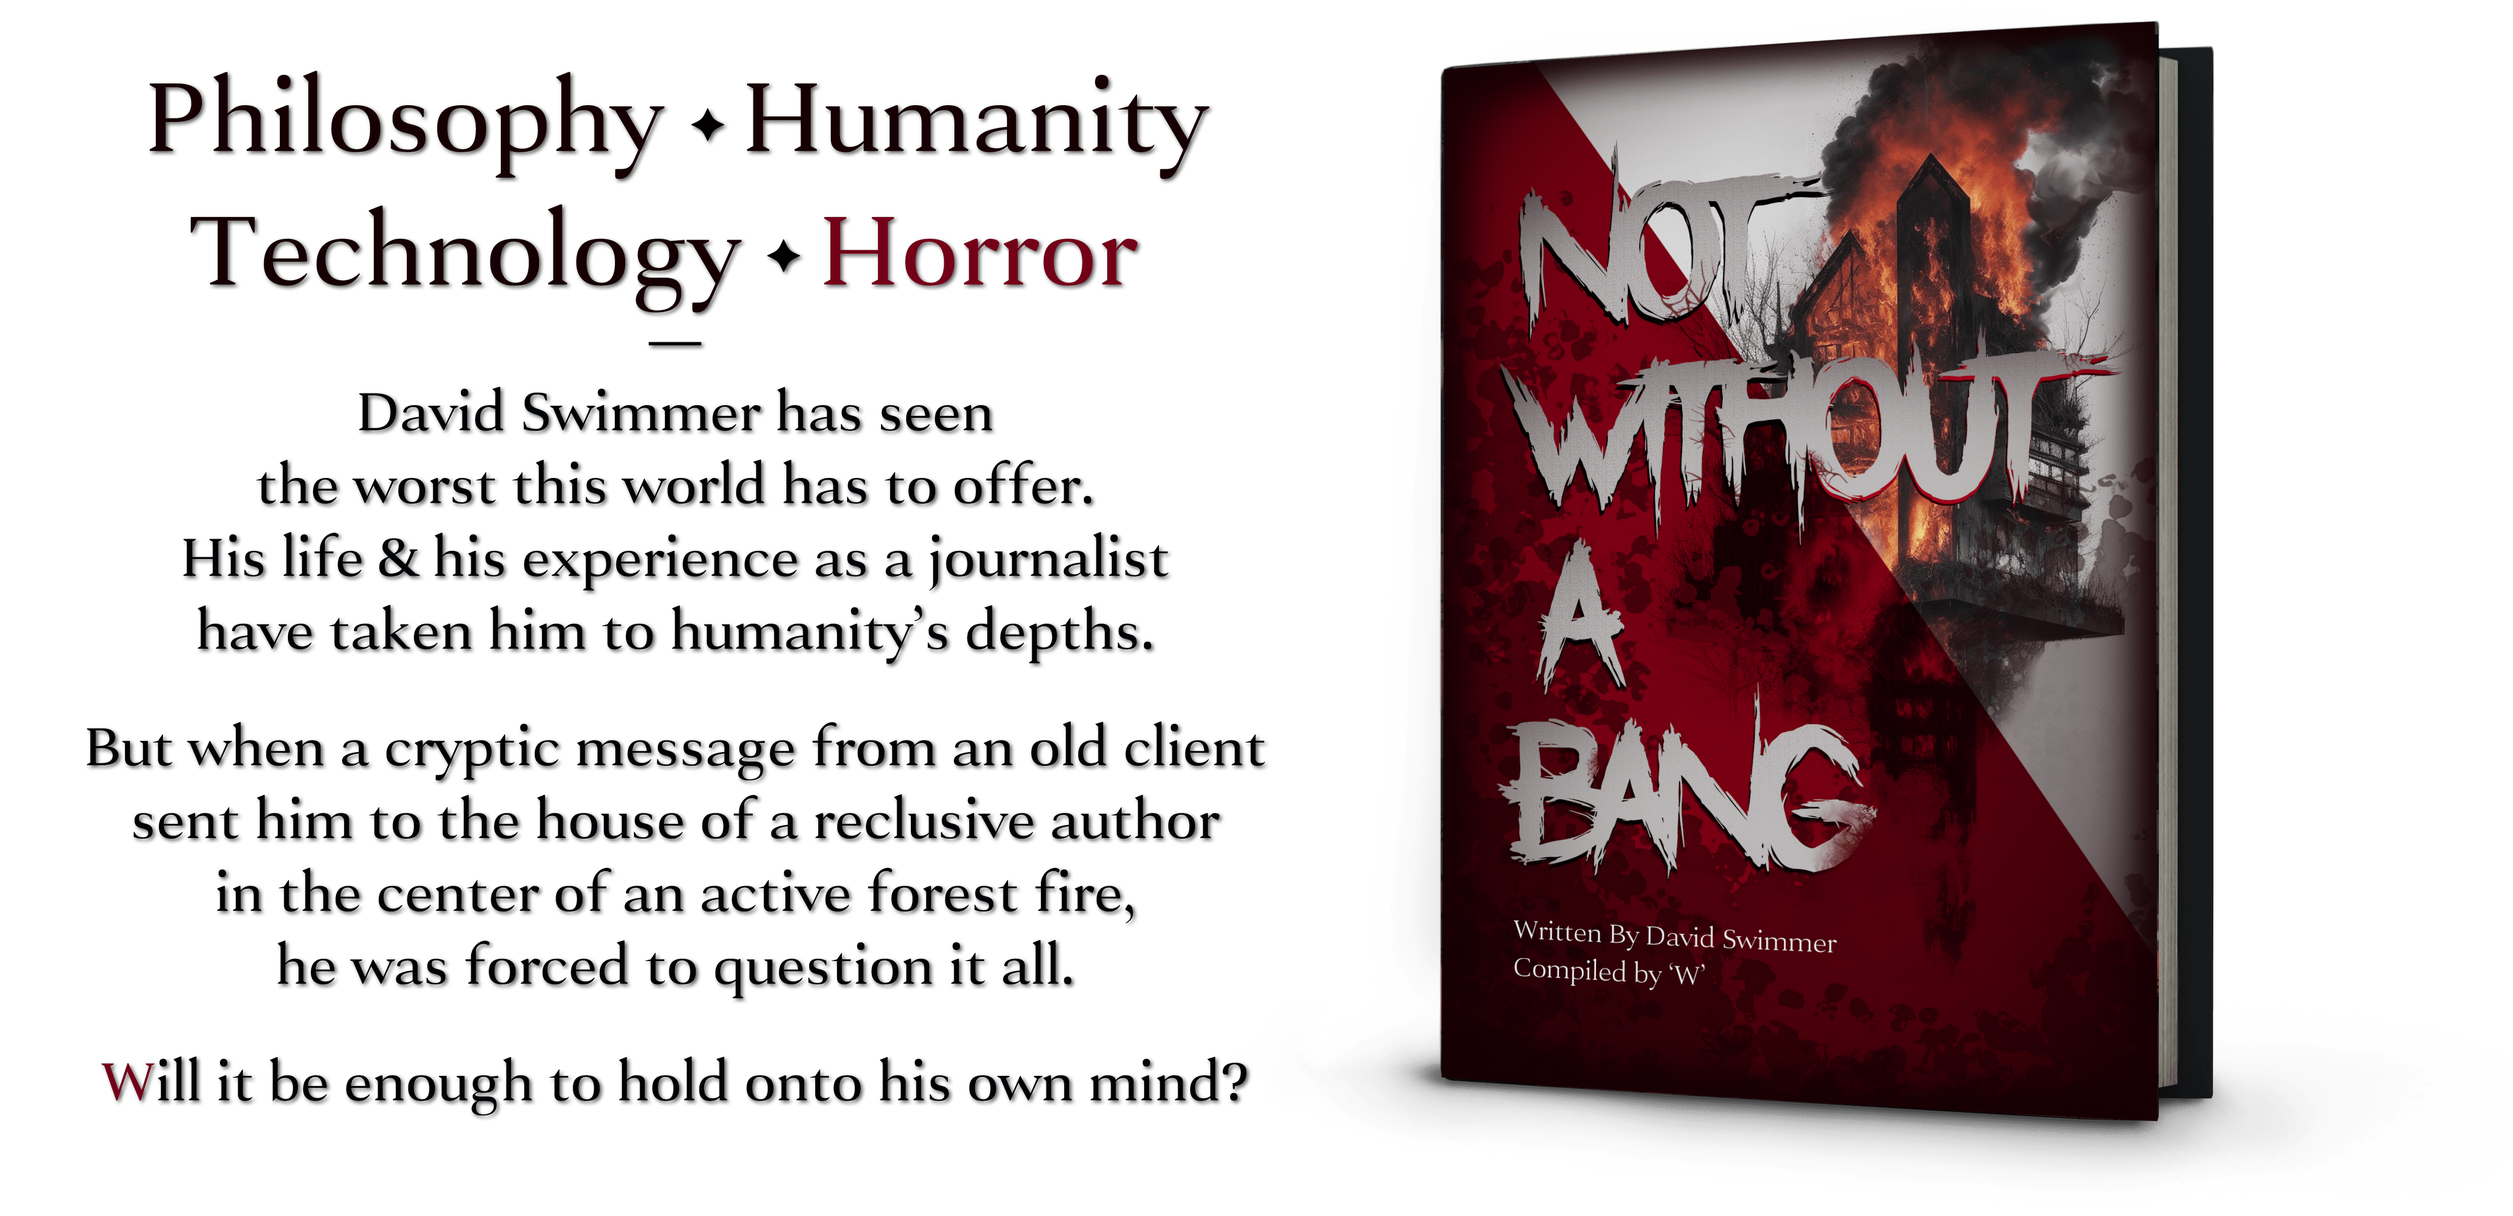
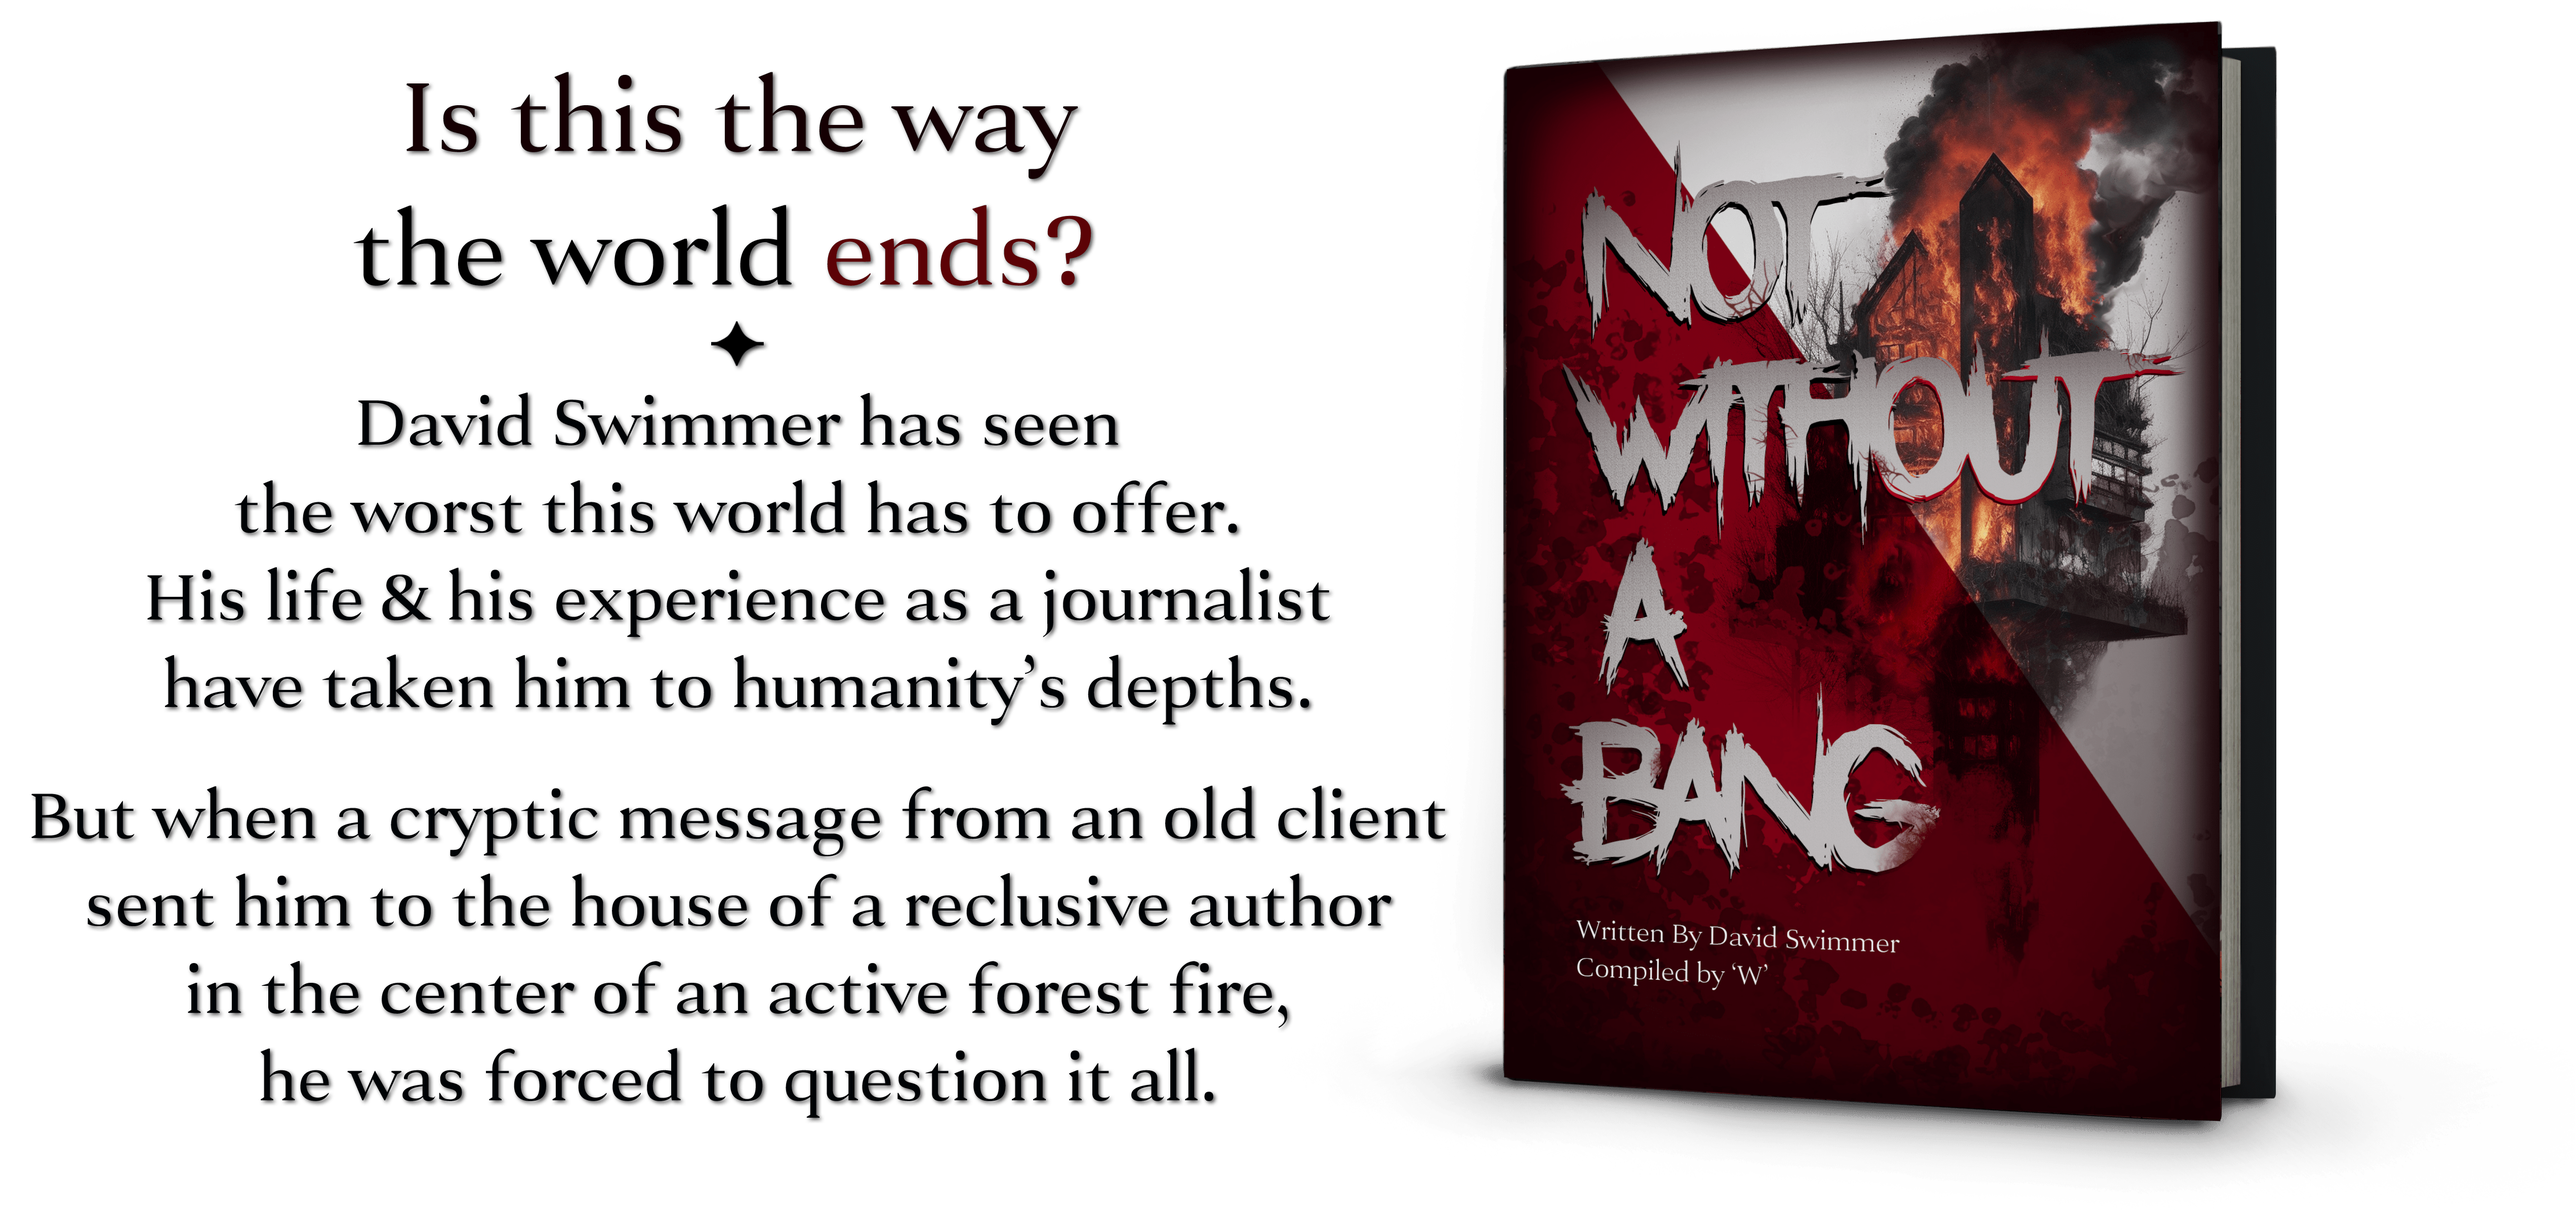
Change header, fade black rain, anim fixes

Changed region(s): [[0.0, 0.0312, 0.9052, 0.9359], [0.0312, 0.8735, 0.4994, 0.9359], [0.7491, 0.7176, 0.8115, 0.78]]

diff --git a/index.html b/index.html
@@ -23,9 +23,9 @@
 	<link rel="stylesheet" type="text/css" href="semantic.min.css">
 	<!-- Fontawesome Reference -->
 	<link rel="stylesheet" href="https://use.fontawesome.com/releases/v5.3.1/css/all.css" integrity="sha384-mzrmE5qonljUremFsqc01SB46JvROS7bZs3IO2EmfFsd15uHvIt+Y8vEf7N7fWAU" crossorigin="anonymous">
-	<!-- PRELOAD I WILL MURDER YOU IF YOU STOP WORKING AGAIN YOU FUCK -->
+	<!-- PRELOAD -->
 </head>
-<body style="background-image:linear-gradient(to bottom right,rgb(245, 242, 236) 33%, rgb(114, 11, 11)); margin: 0px; padding: 0px; ">
+<body style="background-image:linear-gradient(to bottom right,rgb(245, 242, 236) 33%, rgb(114, 11, 11)); margin: 0px; padding: 0px; z-index: -5;">
 	<!-- UNISΩN PRELOADER -->
 	<div id="preloader_container" style="z-index: 100;">
 		<video id="preloader" preload="auto" autoplay muted>
@@ -111,15 +111,16 @@ We [human.machine] would do well to know our place; see as it is. -->
 			<span class="tooltiptext">View Preview</span>
 		</a>
 	</div>
-	<!--  ----------- CARD ONE ---------- -->
+	<!--  ----------- CARDS ---------- -->
 	<div id="infoboxes" class="columns">
+		<!--  ----------- CARD ONE ---------- -->
 		<div id="card1" class="column infobox">
 			<div class="box">
 				<a href="" style="color: black;" alt="Google" target="_blank">
 					<article class="media">
 						<div class="media-left">
 							<figure class="image is-64x64">
-								<img src="images/GoogBooks.webp" alt="Image">
+								<img src="images/GoogleBooks.webp" alt="Image">
 							</figure>
 						</div>
 						<div class="media-content">

diff --git a/style.css b/style.css
@@ -42,6 +42,14 @@ html{
   justify-content: center;
   align-items: center;
   position: relative;
+  --mask: linear-gradient(to bottom, 
+      rgba(0,0,0, 1) 0,   rgba(0,0,0, 1) 80%, 
+      rgba(0,0,0, 0) 95%, rgba(0,0,0, 0) 0
+  ) 100% 50% / 100% 100% repeat-x;
+  
+  -webkit-mask: var(--mask); 
+  mask: var(--mask);
+
 }
 @media (max-width: 800px) {
   #info {
@@ -52,6 +60,12 @@ html{
     margin: 0;
     width: 640px;
     height: 289px;
+    --mask: linear-gradient(to bottom, 
+    rgba(0,0,0, 1) 0,   rgba(0,0,0, 1) 70%, 
+    rgba(0,0,0, 0) 95%, rgba(0,0,0, 0) 0
+    ) 100% 90% / 100% 100% repeat-x;
+    -webkit-mask: var(--mask); 
+    mask: var(--mask);
   }
   #unison_box{
     top: 15px;
@@ -155,6 +169,7 @@ html{
 .infobox{
   visibility: hidden;
 }
+
 /* 
 #urge{
   position: absolute;
@@ -174,7 +189,7 @@ html{
 /* NAV STUFF */
 #navgott{
   transition: top 0.3s;
-  animation: fadeIn 4.6s ease-in-out;
+  animation: fadeIn 2.6s ease-in-out;
 }
 
 #nav-collapsed{
@@ -242,6 +257,7 @@ padding: 41px !important;
   bottom: 0;
   height: 50px;
   padding: 0%;
+  animation: fadeIn 2.6s ease-in-out;
 }
 
 #foot{

diff --git a/script.js b/script.js
@@ -51,19 +51,19 @@ setTimeout(function(){
 	$('#card2')
 		.transition('fade up')
 	;
-}, 2950);
+}, 1950);
 // FADEINS
 setTimeout(function(){
 	$('#card3')
 		.transition('fade up')
 	;
-}, 3550);
+}, 2450);
 // FADEINS
 setTimeout(function(){
 	$('#card4')
 		.transition('fade up')
 	;
-}, 4050);
+}, 2950);
 // setTimeout(function(){
 // 	$('#urge')
 // 		.transition('fade down')
